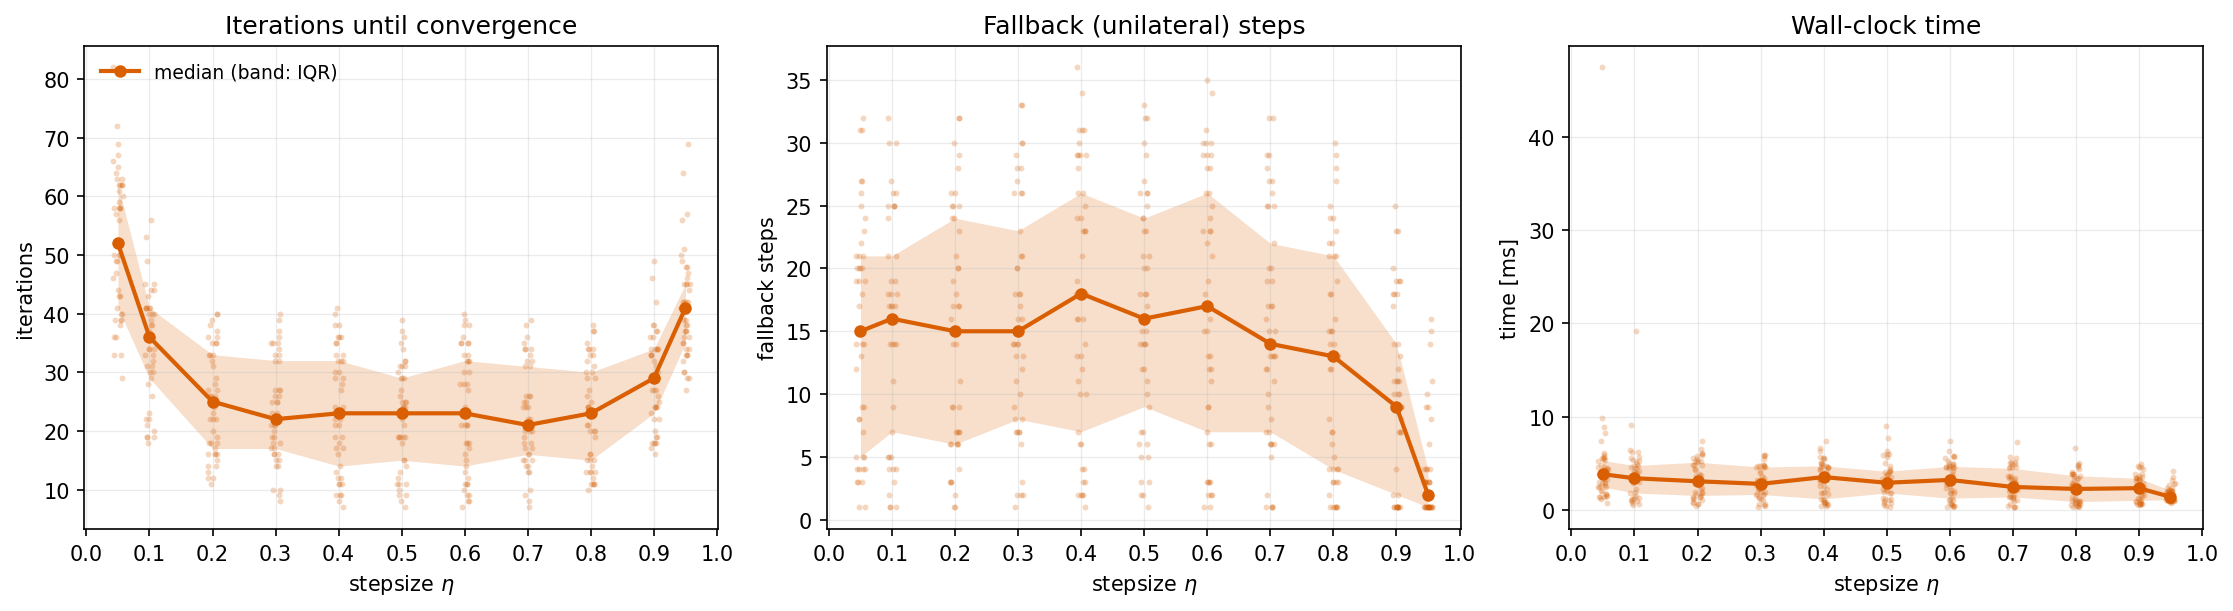
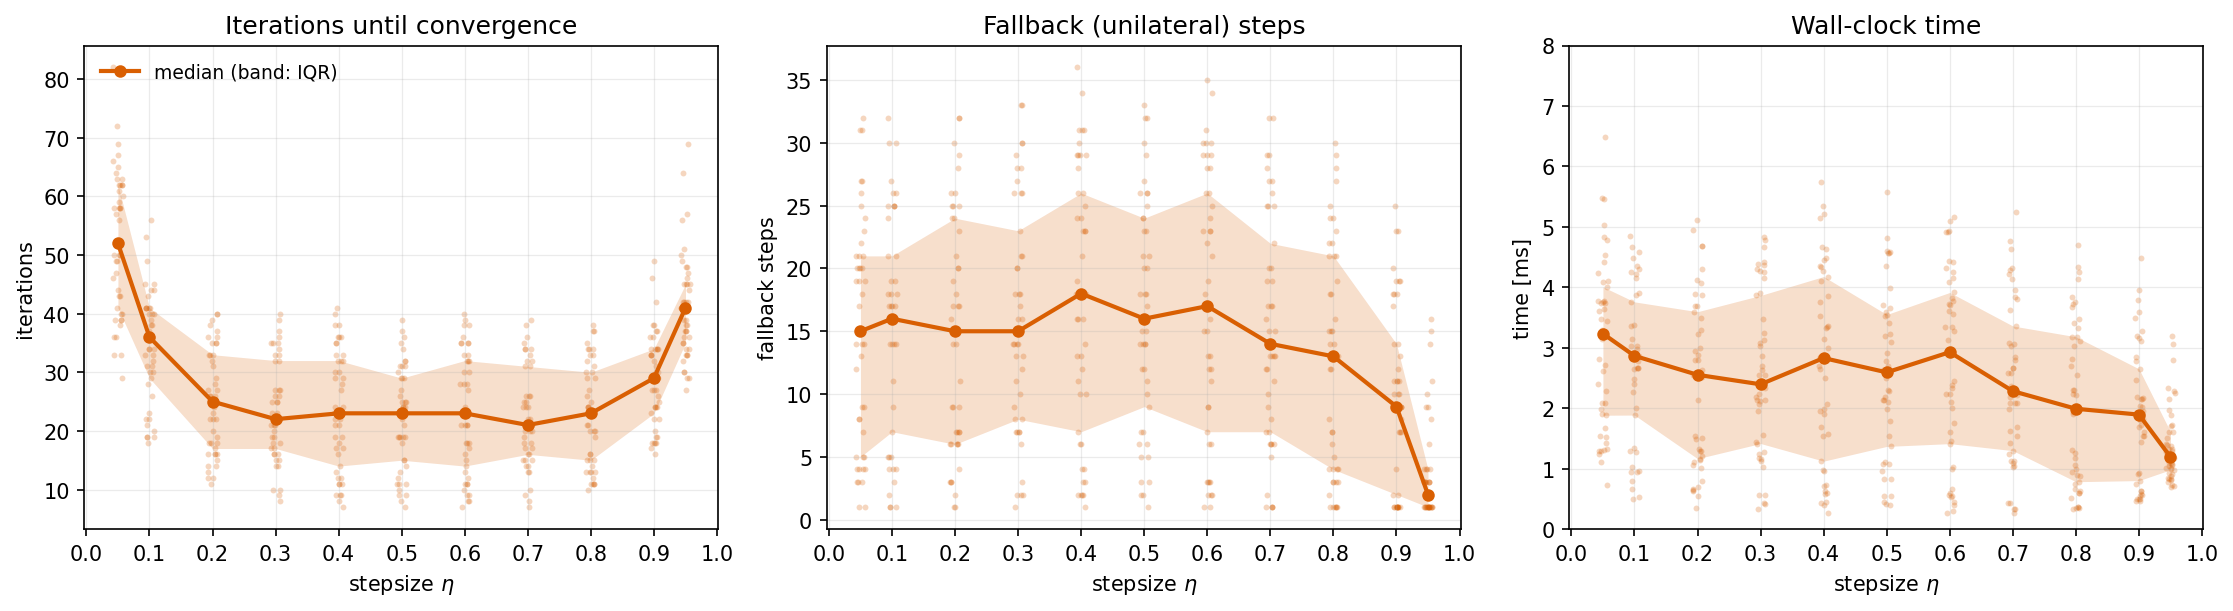
Modified figure

diff --git a/Shared_Resource/fpeg_scaling.py b/Shared_Resource/fpeg_scaling.py
@@ -38,12 +38,13 @@ def run(game, x0, eta, T, eps):
 
 
 def plot_stats(xs, stats, xlabel, path_stem, logx, logy=(True, True, True),
-               xticks=None, logy_subs=None, panels=(0, 1, 2)):
+               xticks=None, logy_subs=None, panels=(0, 1, 2), ylims=None, ytick_steps=None):
     """1x3 panels (iterations, fallbacks, time): median, IQR band and individual runs vs xs.
     stats[x] is an array (runs, 3) of iterations, fallbacks, time in ms; logy per panel.
     xticks: tick positions on a linear x axis;
     logy_subs: {panel index: labelled log ticks per decade, e.g. (1, 2, 5)};
-    panels: which of the three panels to draw, e.g. (0,) for iterations only."""
+    panels: which of the three panels to draw, e.g. (0,) for iterations only;
+    ylims, ytick_steps: {panel index: (ymin, ymax)} and {panel index: step} for linear y axes."""
     xs = np.array(xs)
     titles = [("Iterations until convergence", "iterations"),
               ("Fallback (unilateral) steps", "fallback steps"),
@@ -75,6 +76,10 @@ def plot_stats(xs, stats, xlabel, path_stem, logx, logy=(True, True, True),
                 ax.yaxis.set_major_locator(ticker.LogLocator(subs=logy_subs[k]))
                 ax.yaxis.set_major_formatter(ticker.FuncFormatter(lambda y, _: f"{y:g}"))
                 ax.yaxis.set_minor_formatter(ticker.NullFormatter())
+        if ylims and k in ylims:
+            ax.set_ylim(*ylims[k])
+        if ytick_steps and k in ytick_steps:
+            ax.yaxis.set_major_locator(ticker.MultipleLocator(ytick_steps[k]))
         ax.set_xlabel(xlabel)
         ax.set_ylabel(ylabel)
         ax.set_title(panel)

diff --git a/Shared_Resource/fpeg_eta.py b/Shared_Resource/fpeg_eta.py
@@ -51,7 +51,7 @@ def main():
     xticks = np.round(np.arange(0.0, 1.01, 0.1), 1)
     plot_stats(args.etas, stats, r"stepsize $\eta$",
                os.path.join(args.out, "fpeg_eta"), logx=False, logy=(False, False, False),
-               xticks=xticks)
+               xticks=xticks, ylims={2: (0, 8)}, ytick_steps={2: 1})
     plot_stats(args.etas, stats, r"stepsize $\eta$",          # iterations panel only
                os.path.join(args.out, "fpeg_eta_iterations"), logx=False, logy=(False, False, False),
                xticks=xticks, panels=(0,))
